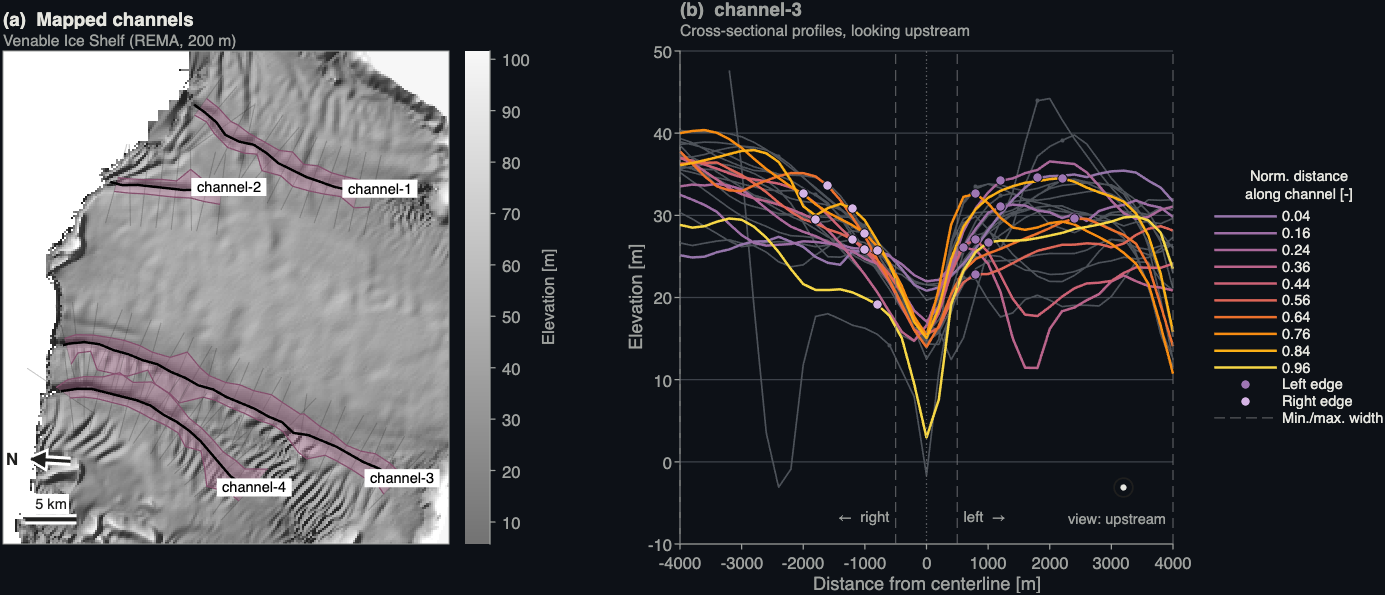
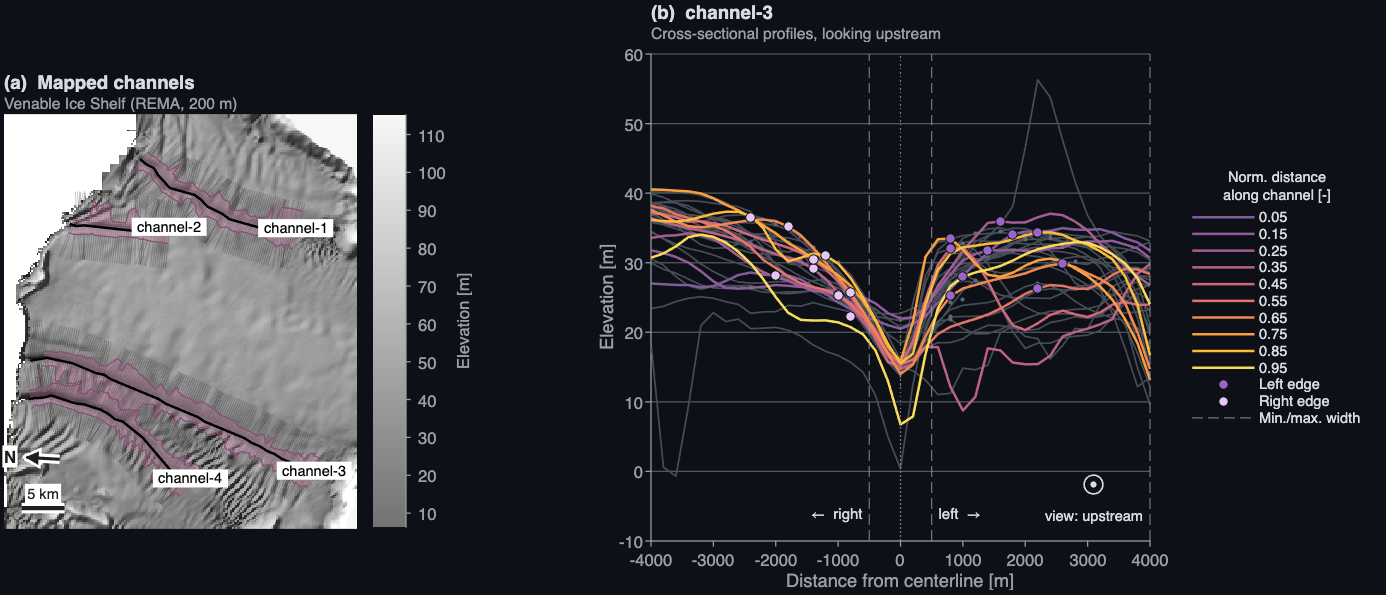
update README

diff --git a/README.md b/README.md
@@ -8,8 +8,8 @@ width, depth and edge elevation are saved as tables, figures and georeferenced s
 
 For a detailed description of the method, please refer to our preprint on arXiv.org:
 
-> Kreynen D, Alley KE, Santis M, Hock R and Jackson PH (in prep.) Sub-Ice: semi-automated mapping
-> of basal channels from ice shelf surface elevation data.
+> Kreynen D, Alley KE, Santis M, Hock R and Jackson PH (2026) Sub-Ice: semi-automated mapping
+> of basal channels from ice shelf surface elevation data. arXiv preprint, doi: [coming soon]
 
 All settings are explained in the comments of the configuration file (*config.m*).
 
@@ -21,8 +21,7 @@ All settings are explained in the comments of the configuration file (*config.m*
 
 ### Getting started:
 
-1. Make sure you have MATLAB with the Mapping Toolbox and the Signal Processing Toolbox (Sub-Ice was
-   tested in MATLAB R2026a).
+1. Install MATLAB with the Mapping and Signal Processing Toolboxes (tested: R2026a).
 2. Clone this GitHub repository to create a local copy of the code on your computer (or download and unzip).
 3. Open *config.m* and update the settings as required. To write output to disk, set `save_figs`,
    `save_shps` and/or `save_tables` to 1.
@@ -54,16 +53,13 @@ and is licensed separately under [CC BY 4.0](https://creativecommons.org/license
 (MATLAB Central File Exchange, BSD license, see *LICENSE*).
 
 
-\
-Sub-Ice version as of 2026-11-06 (tested using MATLAB R2026a)
-
 &copy; [Dylan Kreynen](https://www.mn.uio.no/geo/english/people/aca/geohyd/kreynen/)  
 University of Oslo  
 2024-2026
+
+We thank Adam Isaak (University of Manitoba) for implementing the NearPeaks-Kneedle edge detection methods.
 
 originally a project at the International Summer School in Glaciology\
 project team members: Marcelo Santis & Dylan Kreynen\
 advisor: Karen Alley (University of Manitoba)\
 McCarthy (AK), June 2024
-
-NearPeaks-Kneedle edge detection method: Adam Isaak (University of Manitoba)
